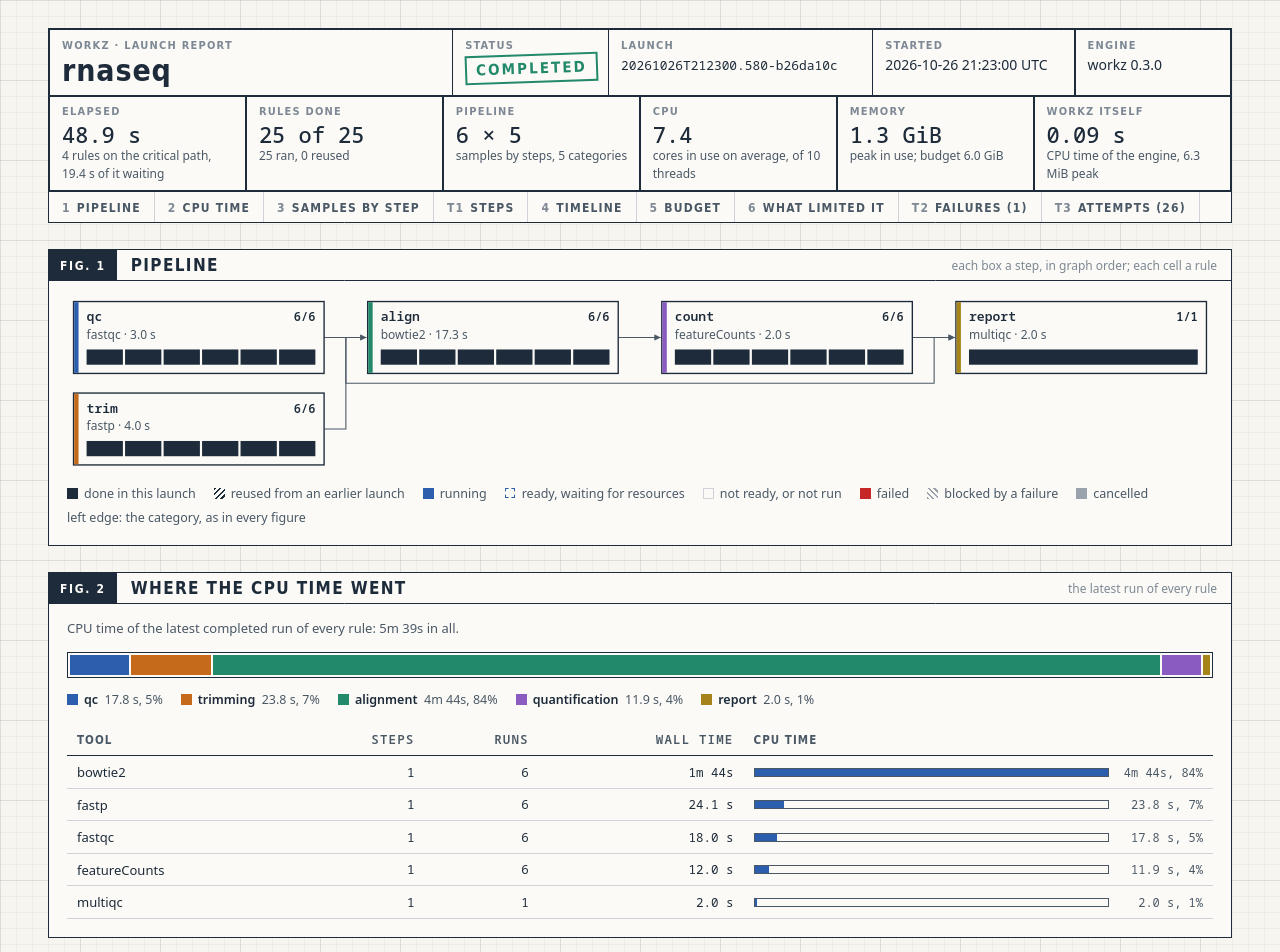
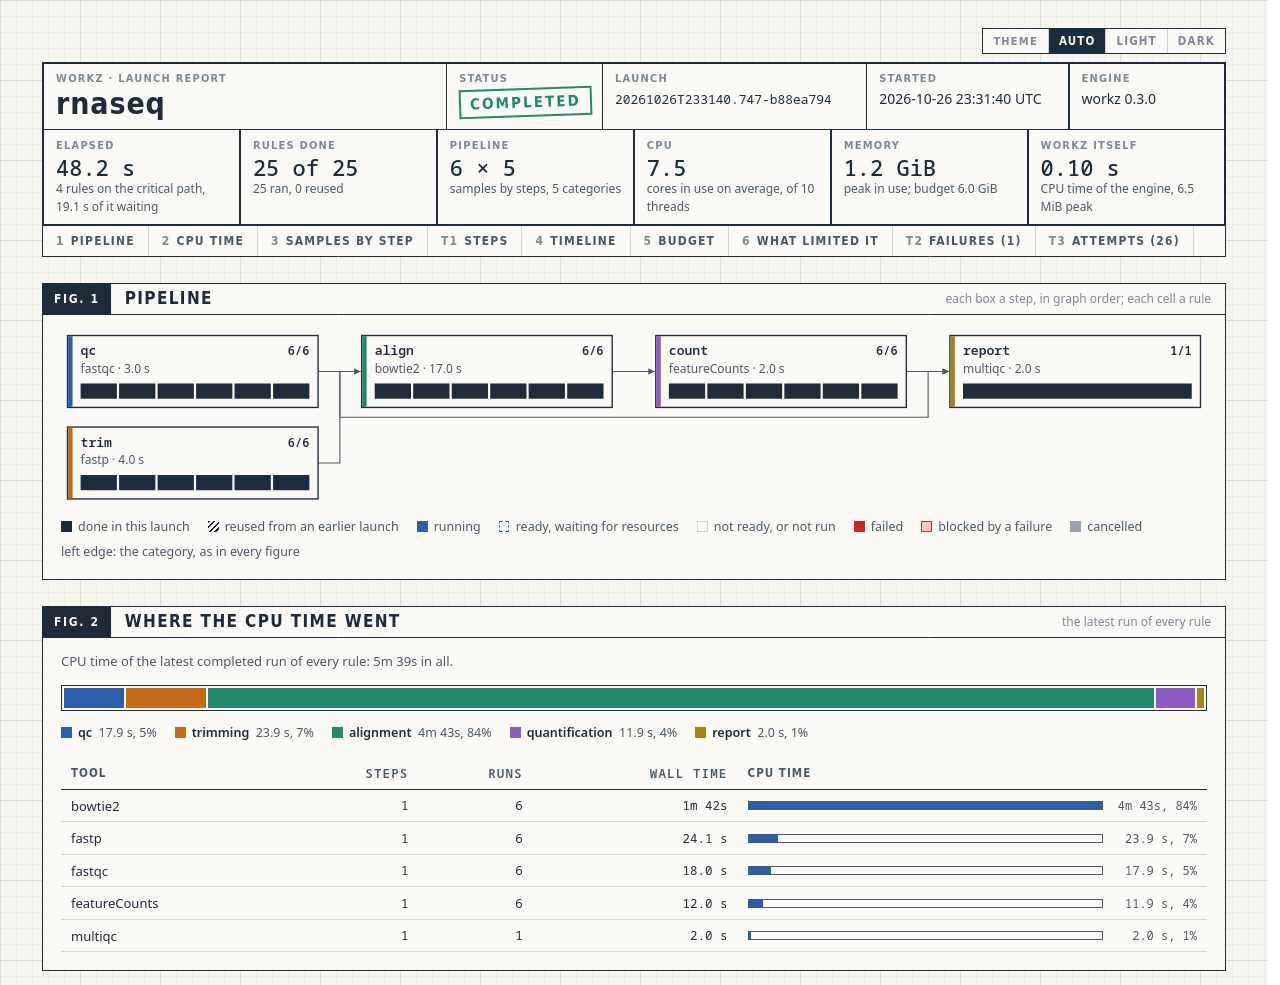
feat: switch the page's theme and calm its dark sheet

diff --git a/wiki/Reports.md b/wiki/Reports.md
@@ -178,9 +178,9 @@ Each step compares the median wall time of its runs, the largest cgroup peak and
 
 ## The HTML report
 
-`workz report --format html -o report.html` writes the launch as one self-contained page, with no scripts and nothing loaded from elsewhere, to open in a browser or attach to a message. The page is drawn as an engineering sheet: grid paper in a light color scheme, a blueprint in a dark one, following the reader's setting. It prints cleanly.
+`workz report --format html -o report.html` writes the launch as one self-contained page, with no scripts and nothing loaded from elsewhere, to open in a browser or attach to a message. The page is drawn as an engineering sheet, ink on grid paper in light and a charcoal sheet in dark. It follows the reader's color scheme until the theme tag at its corner picks auto, light or dark, and it always prints in light.
 
-![The top of an HTML report: a title block with the status stamp, elapsed time, rules done, the pipeline's samples and steps, CPU and memory against the budget and the engine's cost; FIG. 1, the pipeline as boxes for qc, trim, align, count and report wired in graph order, each with a filled cell per rule; and FIG. 2, the CPU time split by category, then per tool.](images/report.png)
+![The top of an HTML report: a theme tag at the corner set to auto, a title block with the status stamp, elapsed time, rules done, the pipeline's samples and steps, CPU and memory against the budget and the engine's cost; FIG. 1, the pipeline as boxes for qc, trim, align, count and report wired in graph order, each with a filled cell per rule; and FIG. 2, the CPU time split by category, then per tool.](images/report.png)
 
 The sheet holds, in order:
 
@@ -197,4 +197,4 @@ The sheet holds, in order:
 
 Figures 1 to 3 and Table 1 cover the pipeline, so a launch that reused rules still shows every sample and step, with each reused rule hatched; the rest cover the launch itself. Each category, or each step when no rule declares a category, keeps one color across the sheet, on the left edge of its pipeline box, its timeline bars and its matrix column. Up to eight get a color each, in pipeline order; with more, the first seven keep theirs and the rest share gray as "other". Hovering a cell, dot or bar gives its numbers.
 
-Every launch also keeps this page as `report.html` in its launch directory: `run` draws it as the launch starts, every 5 s while it runs, and once more at the end ([Running workflows](Running-Workflows.md#starting-a-launch)). While the launch runs, the page reloads itself every 5 s, its title block says RUNNING, the timeline measures the time so far, and running attempts are open bars; the last page stops reloading. `workz report --format html` draws the same page on demand, for any launch.
+Every launch also keeps this page as `report.html` in its launch directory: `run` draws it as the launch starts, every 5 s while it runs, and once more at the end ([Running workflows](Running-Workflows.md#starting-a-launch)). While the launch runs, the page reloads itself every 5 s, its title block says RUNNING, the timeline measures the time so far, and running attempts are open bars; the last page stops reloading. `workz report --format html` draws the same page on demand, for any launch. A theme picked on a page that reloads itself lasts only while the browser keeps the page's form state; the reader's color scheme is the lasting choice.

diff --git a/CHANGELOG.md b/CHANGELOG.md
@@ -51,14 +51,14 @@ Three changes need action:
 
 ### Changed
 
-- **The HTML report** is drawn as one engineering sheet, on grid paper in light mode and as a blueprint in dark mode.
+- **The HTML report** is drawn as one engineering sheet: ink on grid paper in light, a charcoal sheet in dark.
   - A title block gives the status, elapsed time, rules done, the pipeline's samples and steps, CPU and memory against the budget, and the engine's own cost.
   - FIG. 1 draws the pipeline: a box for each step in the order of the workflow's graph, wired to the steps it reads from, with a cell for each rule showing whether it is done, reused, running, waiting, failed or blocked.
   - Further figures show where the CPU time went, each sample's run of each step, the steps with their suggested requests, the timeline, the use of the budget and what limited the launch.
   - Tables list the failures and every attempt.
   - The pipeline, CPU, samples and steps figures cover the latest run of every rule, so a launch that reused rules still shows the whole pipeline; the rest cover the launch itself.
   - A page written while the launch runs reloads itself every 5 s.
-  - The page follows the reader's light or dark color scheme, prints cleanly, and has no scripts and nothing loaded from elsewhere.
+  - The page follows the reader's color scheme, and a theme tag at its corner picks auto, light or dark without a script. It prints in light and loads nothing from elsewhere.
 - **The live view** shows the launch in gauges.
   - A progress bar is split by state, and the threads and memory reserved against the budget sit beside the cores and memory in use.
   - Each running rule shows its CPU use against its threads and a memory bar against its request, yellow from 70% and red from 90%.
